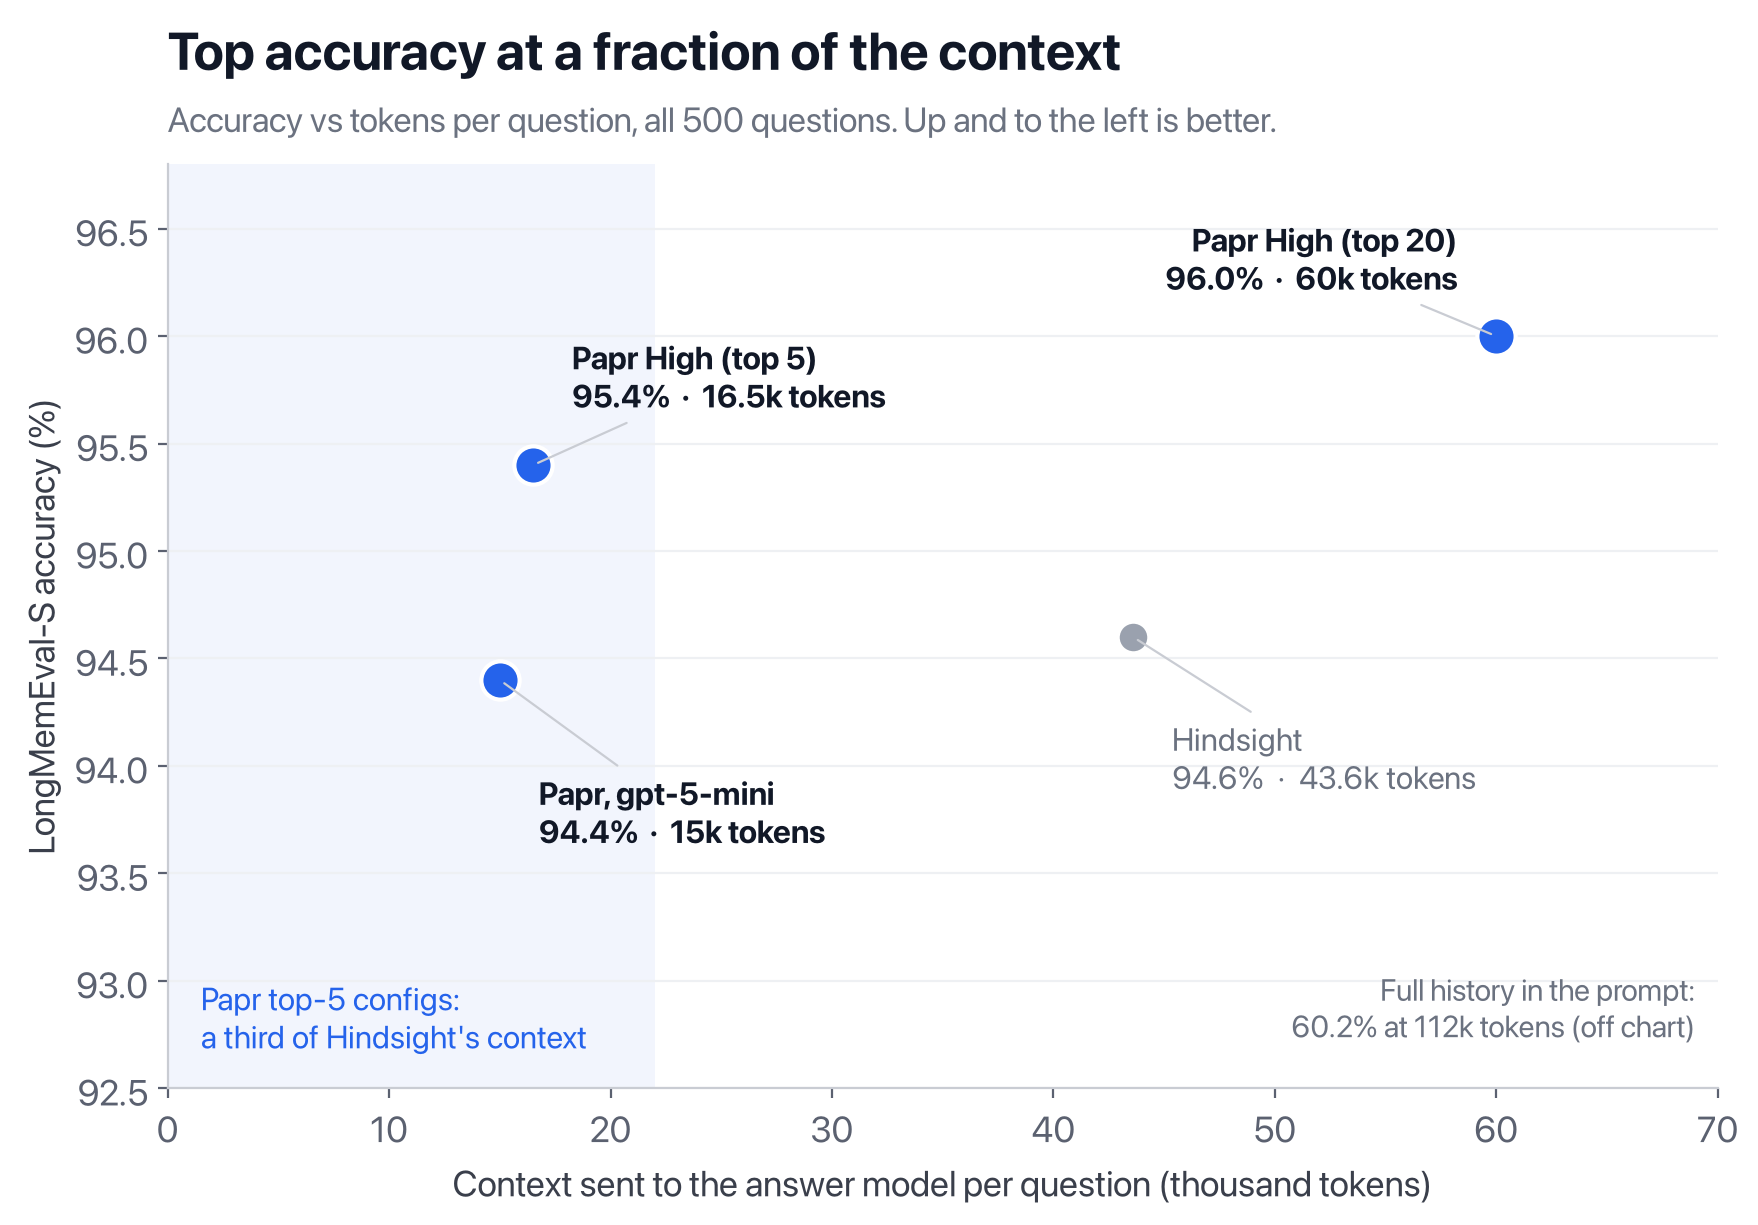
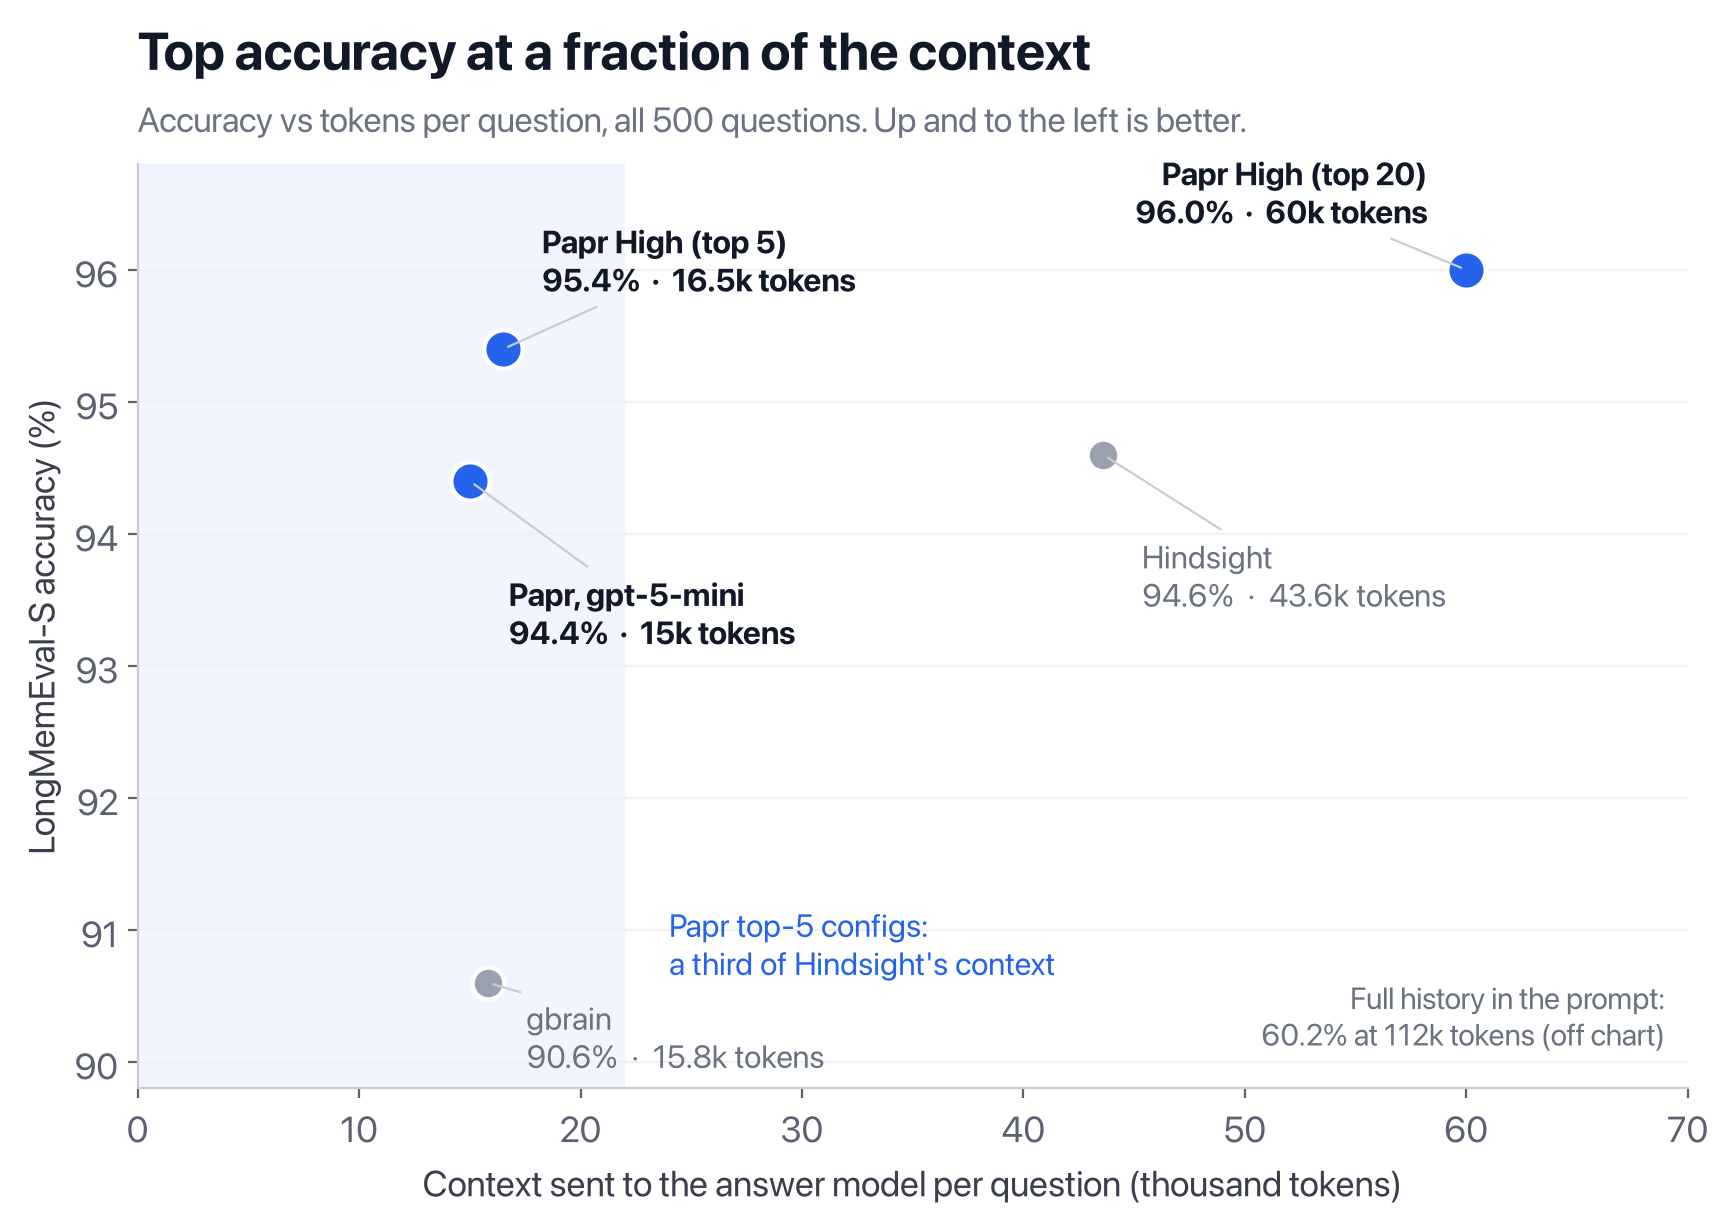
Charts: add gbrain (90.6%, 15.8k tokens)

diff --git a/code/make_charts.py b/code/make_charts.py
@@ -15,17 +15,17 @@ def title(ax,t,s):
 def save(fig,n): fig.savefig(f"assets/{n}.png",dpi=200,bbox_inches="tight",facecolor="white"); plt.close(fig)
 
 # 1. Accuracy vs context (the hero)
-pts=[("Papr, gpt-5-mini",15,94.4,True,(14,-34)),("Papr High (top 5)",16.5,95.4,True,(14,18)),("Papr High (top 20)",60,96.0,True,(-14,14)),
+pts=[("Papr, gpt-5-mini",15,94.4,True,(14,-34)),("gbrain",15.8,90.6,False,(14,-6)),("Papr High (top 5)",16.5,95.4,True,(14,18)),("Papr High (top 20)",60,96.0,True,(-14,14)),
      ("Hindsight",43.6,94.6,False,(14,-30))]
 fig,ax=plt.subplots(figsize=(10,6))
 ax.axvspan(0,22,color=ME,alpha=0.06,lw=0)
-ax.text(1.5,92.65,"Papr top-5 configs:\na third of Hindsight's context",color=ME,fontsize=11.5,va="bottom")
+ax.text(24,90.6,"Papr top-5 configs:\na third of Hindsight's context",color=ME,fontsize=11.5,va="bottom")
 for n,x,y,me,o in pts:
     ax.scatter(x,y,s=190 if me else 130,color=ME if me else OT,zorder=3,edgecolor="white",linewidth=1.5)
     ax.annotate(f"{n}\n{y:.1f}%  ·  {x:g}k tokens",(x,y),xytext=o,textcoords="offset points",fontsize=11.5,arrowprops=dict(arrowstyle="-",color="#c9ccd3",lw=0.8),
         color=INK if me else MUTED,fontweight="bold" if me else "normal",ha="right" if o[0]<0 else "left",va="bottom" if o[1]>0 else "top")
-ax.annotate("Full history in the prompt:\n60.2% at 112k tokens (off chart)",(70,92.6),xytext=(-8,8),textcoords="offset points",ha="right",va="bottom",fontsize=11,color=MUTED)
-ax.set_xlim(0,70); ax.set_ylim(92.5,96.8)
+ax.annotate("Full history in the prompt:\n60.2% at 112k tokens (off chart)",(70,89.9),xytext=(-8,8),textcoords="offset points",ha="right",va="bottom",fontsize=11,color=MUTED)
+ax.set_xlim(0,70); ax.set_ylim(89.8,96.8)
 ax.set_xlabel("Context sent to the answer model per question (thousand tokens)"); ax.set_ylabel("LongMemEval-S accuracy (%)")
 ax.grid(axis="y",color="#eef0f3")
 title(ax,"Top accuracy at a fraction of the context","Accuracy vs tokens per question, all 500 questions. Up and to the left is better.")
@@ -33,8 +33,8 @@ save(fig,"accuracy-vs-tokens")
 
 # 2. Leaderboard bars
 rows=[("Papr High (top 20)",96.0,1),("Chronos High",95.6,0),("Papr High (top 5)",95.4,1),("Mastra OM (gpt-5-mini)",94.9,0),("Hindsight*",94.6,0),
-      ("Papr (gpt-5-mini)",94.4,1),("Chronos Low",92.6,0),("Honcho",90.4,0),("Zep",71.2,0),("Full history in prompt",60.2,0)][::-1]
-fig,ax=plt.subplots(figsize=(10,6.4))
+      ("Papr (gpt-5-mini)",94.4,1),("Chronos Low",92.6,0),("gbrain",90.6,0),("Honcho",90.4,0),("Zep",71.2,0),("Full history in prompt",60.2,0)][::-1]
+fig,ax=plt.subplots(figsize=(10,6.9))
 b=ax.barh([r[0] for r in rows],[r[1] for r in rows],color=[ME if r[2] else "#d5d9e0" for r in rows],height=0.62)
 for r,bar in zip(rows,b): ax.text(r[1]+0.6,bar.get_y()+bar.get_height()/2,f"{r[1]:.1f}%",va="center",fontsize=12,color=INK if r[2] else MUTED,fontweight="bold" if r[2] else "normal")
 for t,r in zip(ax.get_yticklabels(),rows): t.set_color(INK if r[2] else MUTED); t.set_fontweight("bold" if r[2] else "normal")
@@ -43,8 +43,8 @@ title(ax,"LongMemEval-S: published results","500 questions. Each team's reported
 save(fig,"leaderboard")
 
 # 3. Tokens per question
-tk=[("Papr (gpt-5-mini)",15,1),("Papr High (top 5)",16.5,1),("Hindsight",43.6,0),("Papr High (top 20)",60,1),("Full history in prompt",112,0)][::-1]
-fig,ax=plt.subplots(figsize=(10,4.6))
+tk=[("Papr (gpt-5-mini)",15,1),("gbrain (90.6%)",15.8,0),("Papr High (top 5)",16.5,1),("Hindsight",43.6,0),("Papr High (top 20)",60,1),("Full history in prompt",112,0)][::-1]
+fig,ax=plt.subplots(figsize=(10,5.0))
 b=ax.barh([r[0] for r in tk],[r[1] for r in tk],color=[ME if r[2] else "#d5d9e0" for r in tk],height=0.6)
 for r,bar in zip(tk,b): ax.text(r[1]+1.2,bar.get_y()+bar.get_height()/2,f"{r[1]:g}k",va="center",fontsize=12,color=INK if r[2] else MUTED,fontweight="bold" if r[2] else "normal")
 for t,r in zip(ax.get_yticklabels(),tk): t.set_color(INK if r[2] else MUTED)
